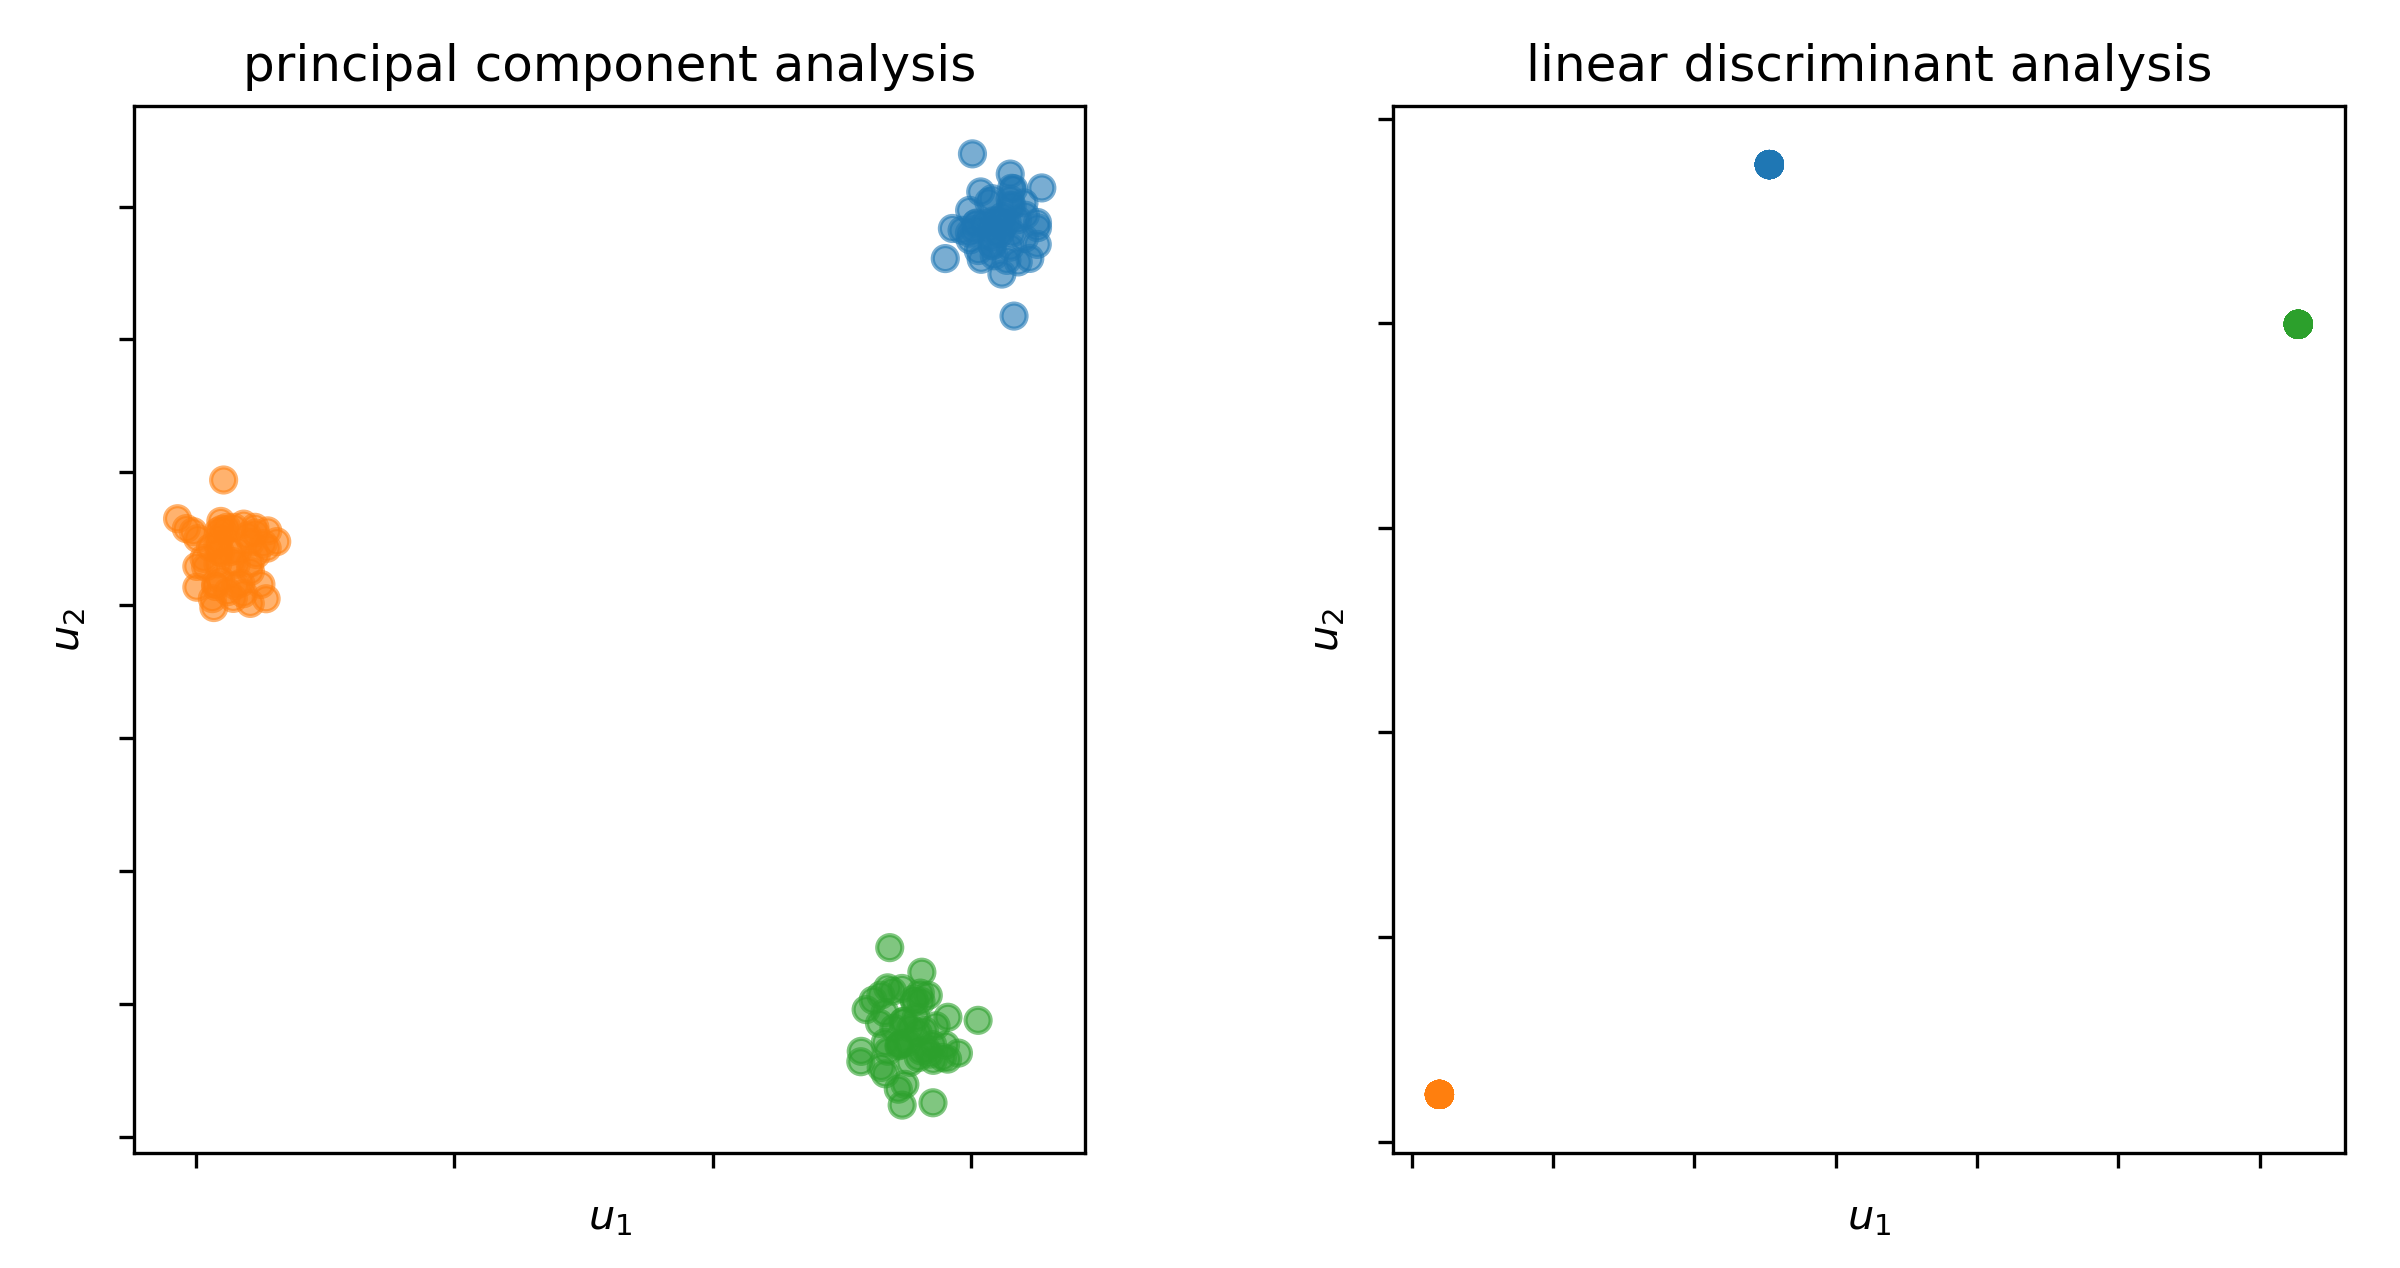
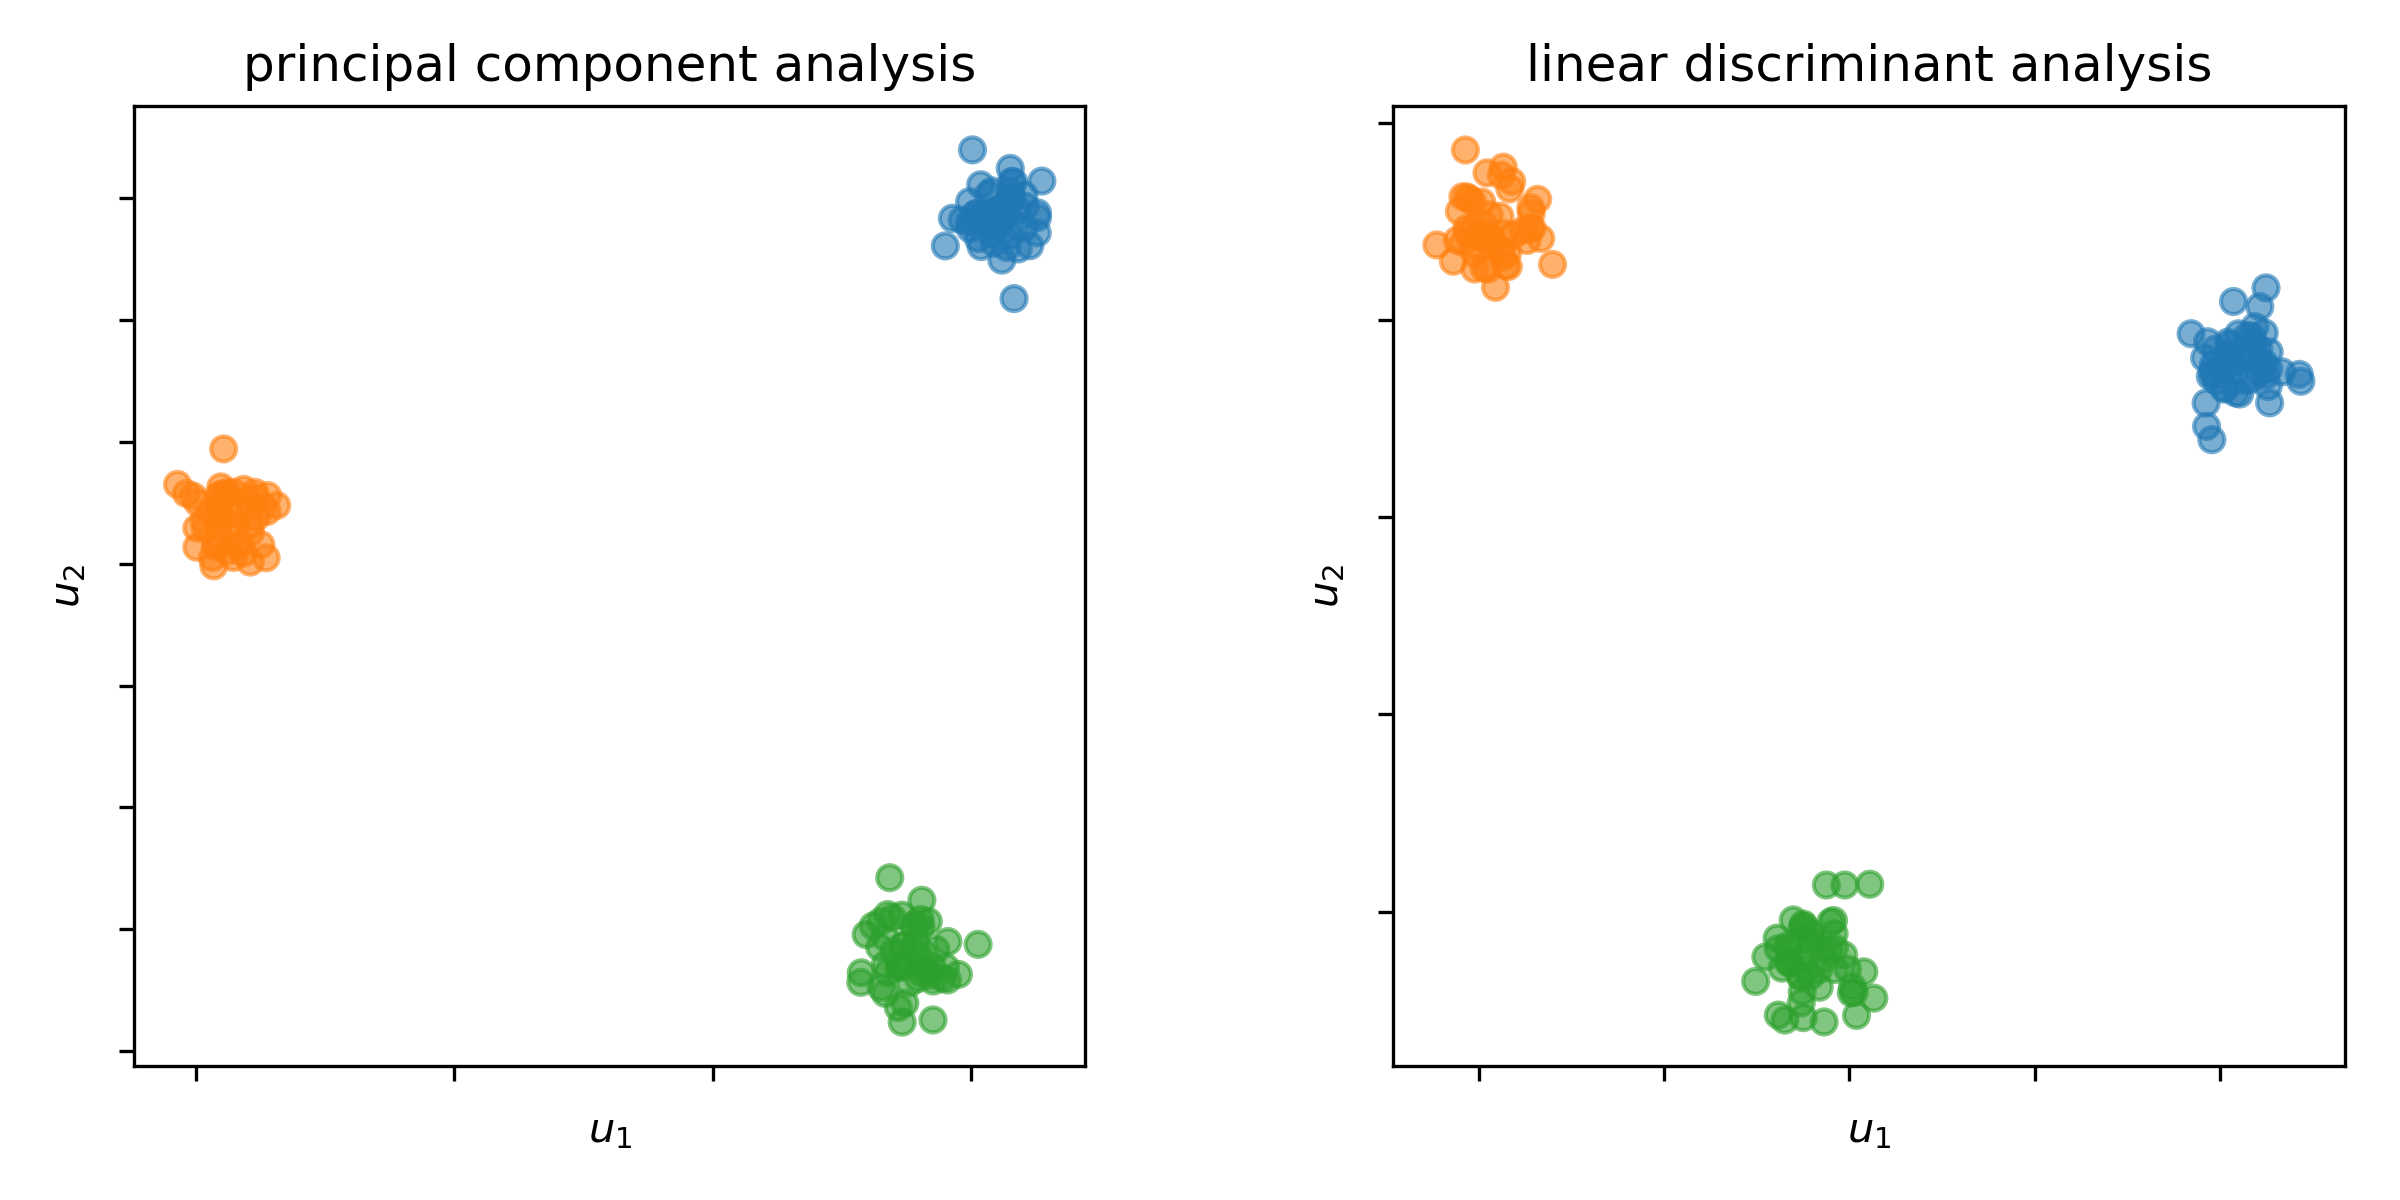
LDA fix

diff --git a/Project03/final/task3_3.py b/Project03/final/task3_3.py
@@ -36,11 +36,14 @@ covs = 1./n * np.matmul(norm_classes, np.transpose(norm_classes,axes=(0,2,1)))
 # within class scatter matrix
 sw = np.sum(covs, axis=0)
 
+#compute overall mean
+mean = np.sum(means*n, axis=0)/150.
+
 # between class scatter matrix
-sb = np.sum(np.matmul(means, np.transpose(means,axes=(0,2,1))),axis=0)
+sb = np.sum(np.matmul(means-mean, np.transpose(means-mean,axes=(0,2,1))),axis=0)
 
 # calculate eigvecs of sw^(-1) * sb
-w, v = np.linalg.eig(np.dot(np.linalg.inv(sw),sb))
+w, v = np.linalg.eigh(np.dot(np.linalg.inv(sw),sb))
 
 # project data
 sorted = np.argsort(w)
